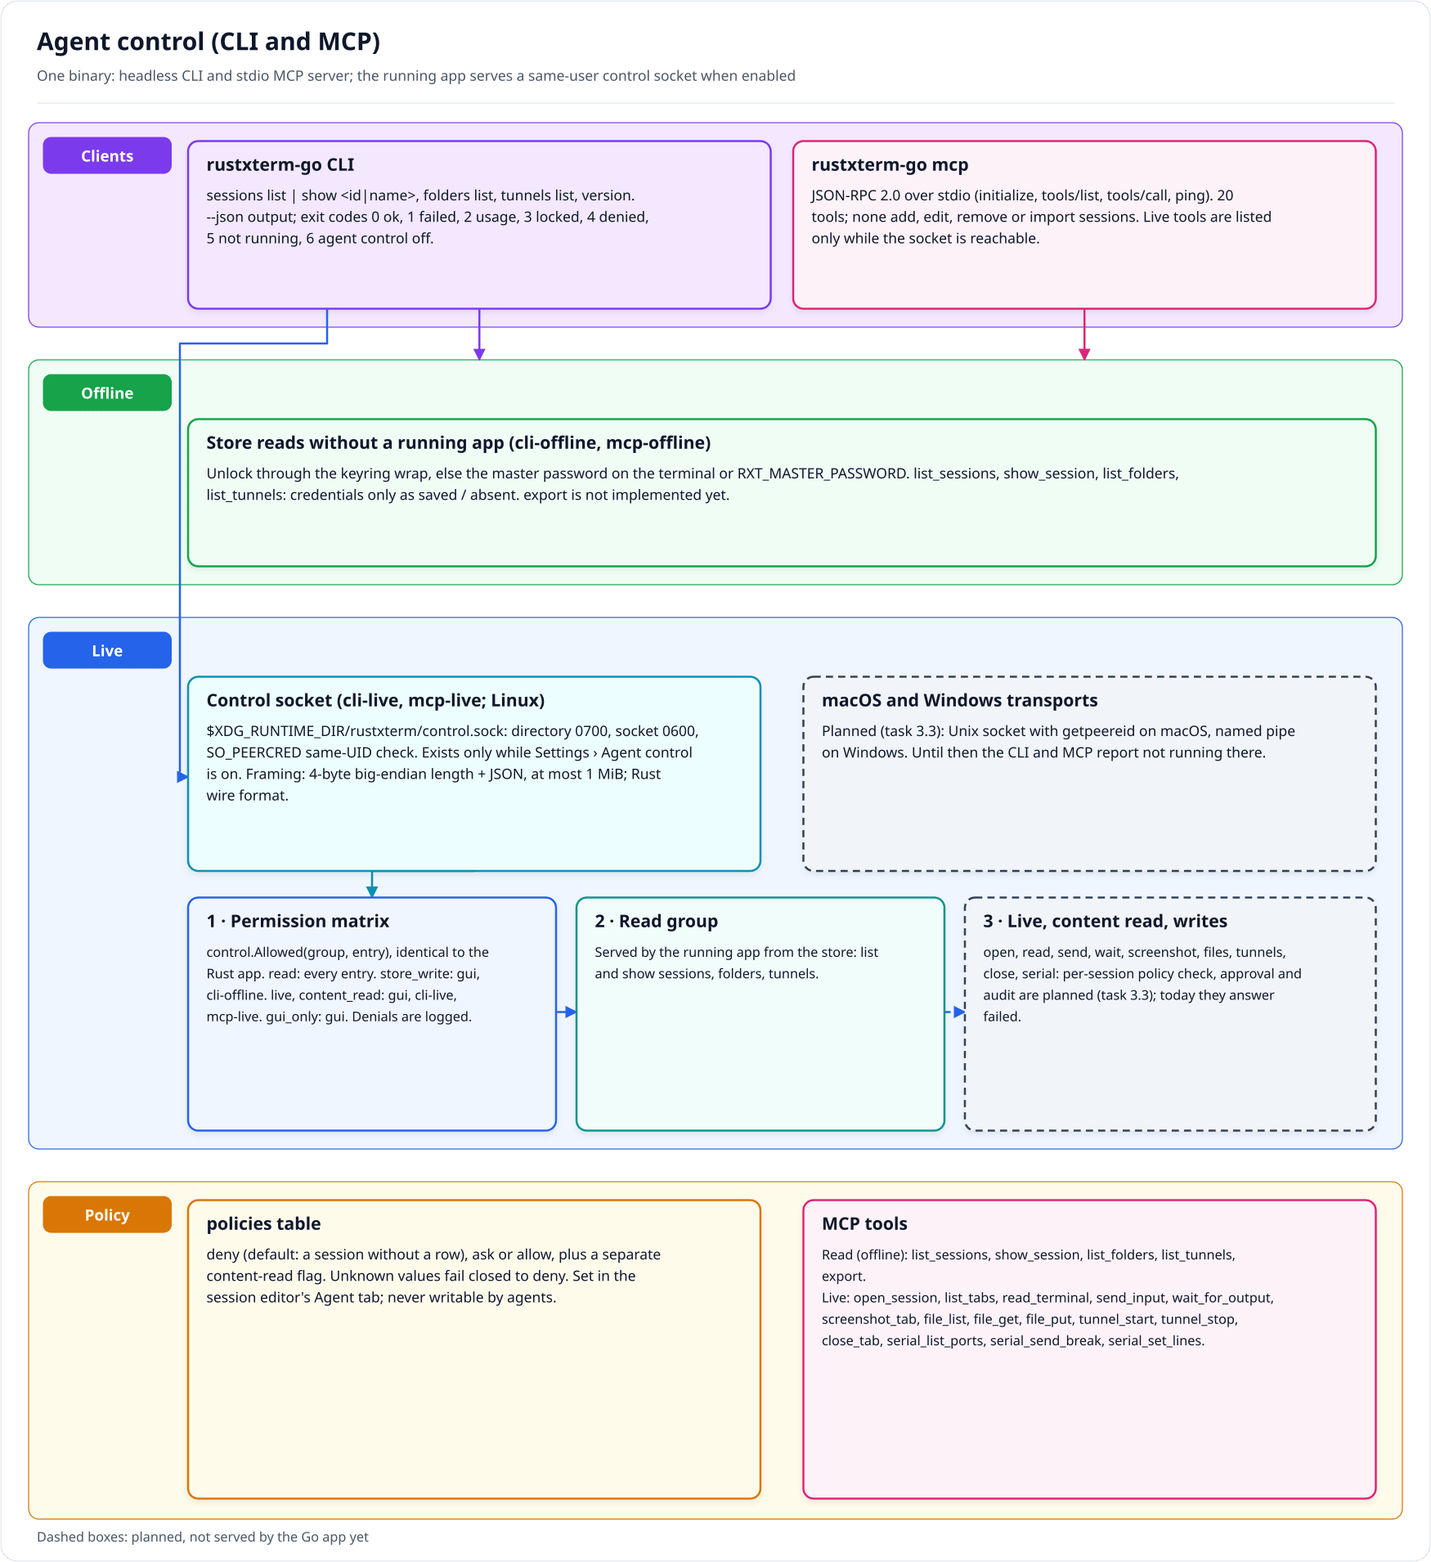
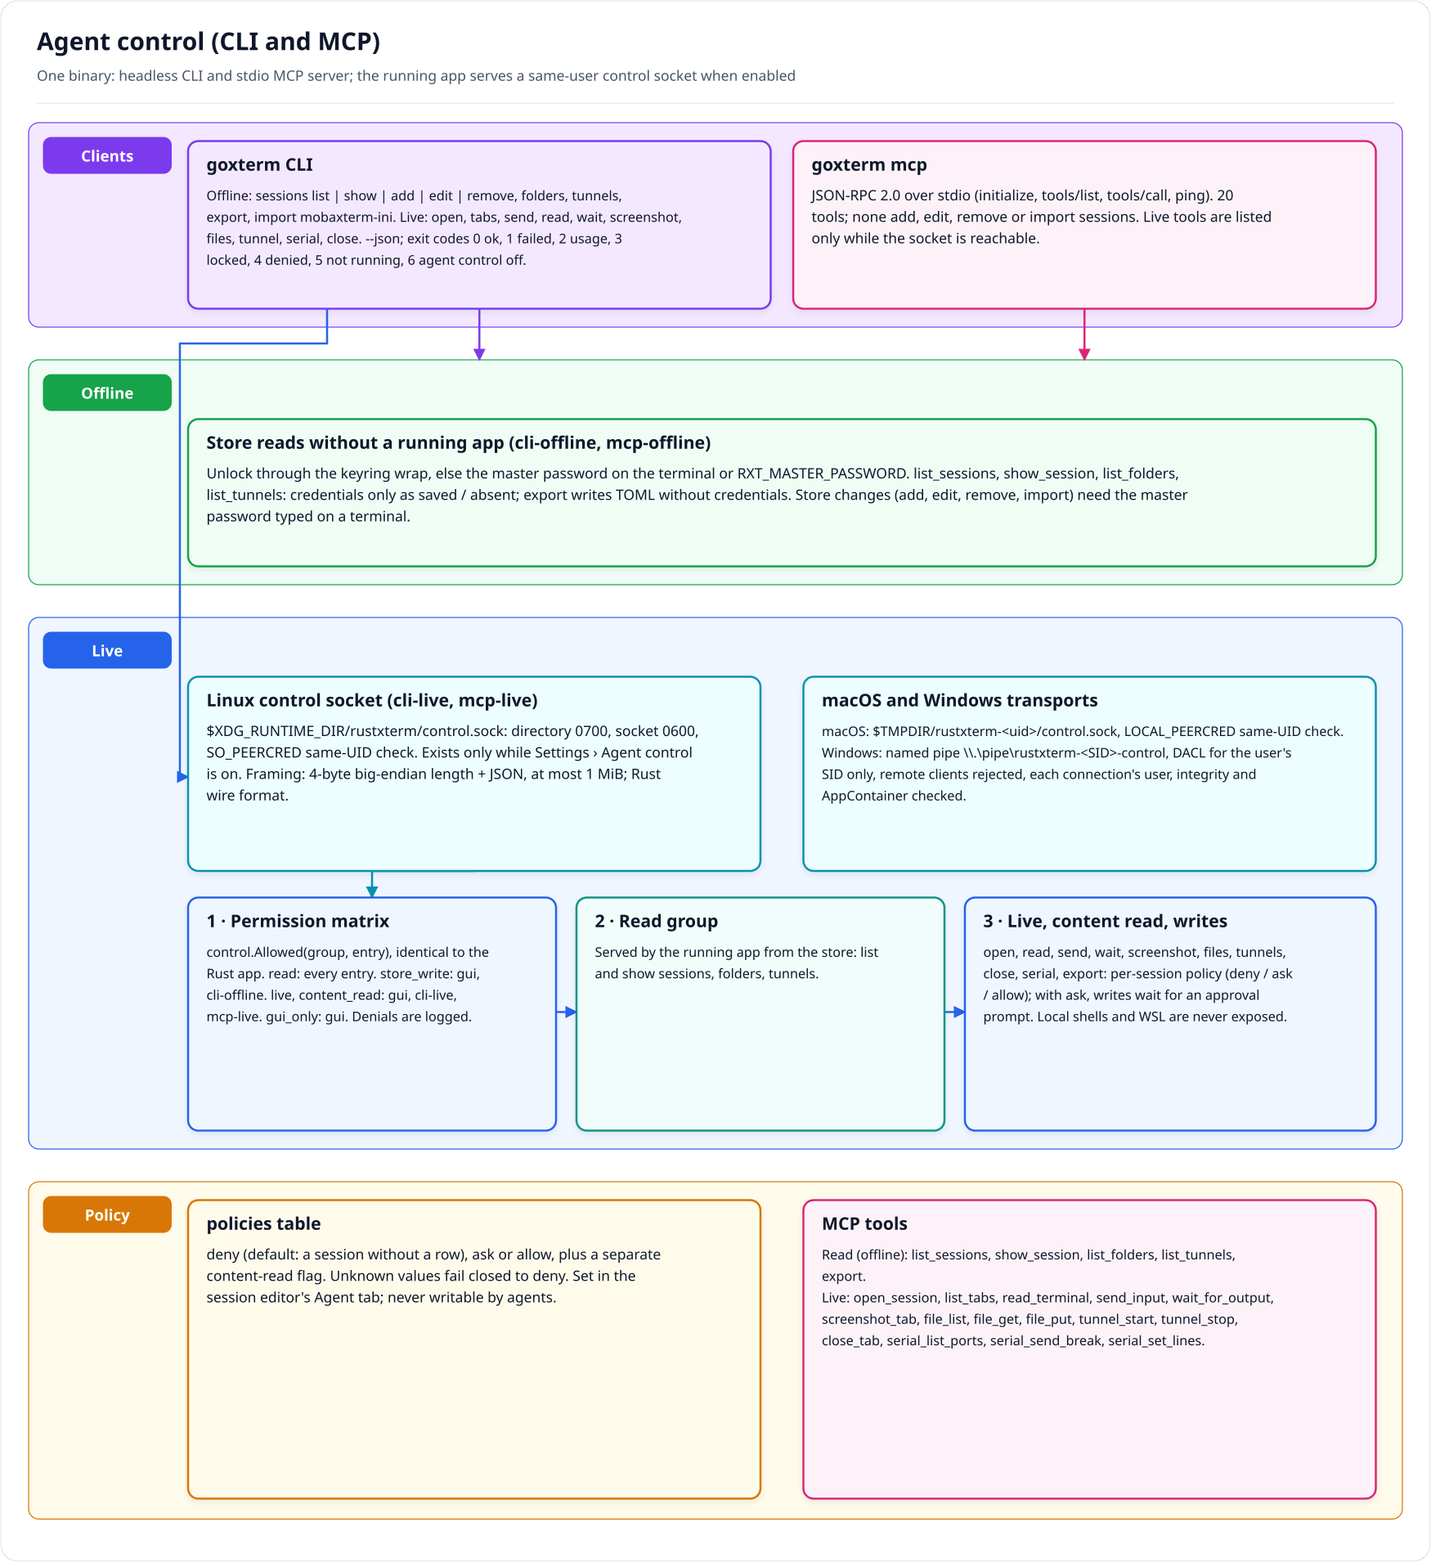
goXterm: README, binary and artifact names (rename from rustXterm)
- Binary and CLI command: rustxterm-go → goxterm. Release artifacts are
  goxterm-X.Y.Z-… (Linux, AppImage, Windows .exe, macOS per-arch and
  universal zip). The macOS bundle is goXterm.app; the AppImage entry and
  icon are goxterm.
- The README presents the project as goXterm; its history notes it
  started as rustXterm. Other docs, the release skill and workflow, and
  diagrams 05/06 use the new names.
- Diagram 05 now matches the current agent control (live operations,
  export, macOS and Windows transports).
- Unchanged on purpose, so existing installs keep their data:
  - the rustxterm config and database folders;
  - keyring entries;
  - the macOS bundle id (io.github.jniltinho.rustxterm.go);
  - the Go module name (rustxterm-go);
  - the Docker build image.

Verified:
- make check, layers and test pass.
- make dist-all builds goxterm-* artifacts.
- The AppImage holds usr/bin/goxterm and goxterm.desktop (Name=goXterm).
- The macOS zip holds goXterm.app/Contents/MacOS/goxterm.
- goxterm version prints the version.

diff --git a/build/macapp/main.go b/build/macapp/main.go
@@ -1,7 +1,7 @@
-// Command macapp packs the two macOS slices into a universal "rustXterm (Go).app" and zips it, on
+// Command macapp packs the two macOS slices into a universal "goXterm.app" and zips it, on
 // Linux and without Apple tools (lipo, iconutil): the fat Mach-O, Info.plist, PkgInfo and a PNG
 // .icns are written in Go. The bundle is unsigned beyond the Go linker's ad-hoc slice signatures, so
-// a downloaded copy needs: xattr -dr com.apple.quarantine "rustXterm (Go).app".
+// a downloaded copy needs: xattr -dr com.apple.quarantine "goXterm.app".
 //
 // Usage: go run ./build/macapp -version V -icon logo.png -out app.zip darwin-amd64 darwin-arm64
 package main
@@ -20,8 +20,8 @@ import (
 )
 
 const (
-	appDir   = "rustXterm (Go).app/Contents/"
-	execName = "rustxterm-go"
+	appDir   = "goXterm.app/Contents/"
+	execName = "goxterm"
 	align    = 14 // 2^14: the page alignment lipo uses for arm64 and x86_64 slices
 )
 
@@ -111,9 +111,9 @@ func plist(version string, icon bool) string {
 <plist version="1.0">
 <dict>
 	<key>CFBundleName</key>
-	<string>rustXterm (Go)</string>
+	<string>goXterm</string>
 	<key>CFBundleDisplayName</key>
-	<string>rustXterm (Go)</string>
+	<string>goXterm</string>
 	<key>CFBundleIdentifier</key>
 	<string>io.github.jniltinho.rustxterm.go</string>
 	<key>CFBundleVersion</key>

diff --git a/cmd/root.go b/cmd/root.go
@@ -1,4 +1,4 @@
-// Package cmd is the command line of the single rustxterm-go binary: with no subcommand it opens the desktop app;
+// Package cmd is the command line of the single goxterm binary: with no subcommand it opens the desktop app;
 // the subcommands are the CLI and the MCP server (mcp). Protocols, the store and MCP are filled in by the later
 // phases of migrate-gui-to-go-wails; this is the scaffold.
 package cmd
@@ -23,8 +23,8 @@ var flags struct {
 }
 
 var rootCmd = &cobra.Command{
-	Use:           "rustxterm-go",
-	Short:         "rustXterm: desktop app, command line and MCP server",
+	Use:           "goxterm",
+	Short:         "goXterm: desktop app, command line and MCP server",
 	SilenceUsage:  true,
 	SilenceErrors: true,
 	Args:          noArgs, // an unknown subcommand is a usage error (2), as with clap

diff --git a/main.go b/main.go
@@ -1,4 +1,4 @@
-// rustXterm (Go): one binary for the desktop app, the CLI and the MCP server. See README.md.
+// goXterm: one binary for the desktop app, the CLI and the MCP server. See README.md.
 // Migration tracked by openspec/changes/migrate-gui-to-go-wails.
 package main
 

diff --git a/README.md b/README.md
@@ -1,8 +1,8 @@
 <div align="center">
 
-<img src="assets/icons/rustxterm.svg" width="96" alt="rustXterm logo">
+<img src="assets/icons/rustxterm.svg" width="96" alt="goXterm logo">
 
-# rustXterm
+# goXterm
 
 **Every remote session you use, in one window.**
 
@@ -28,7 +28,7 @@ is the desktop app, the CLI and the MCP server.
 
 </div>
 
-## Why rustXterm
+## Why goXterm
 
 - **One app instead of five.** Terminals, file transfers and remote desktops live side by side in tabs,
   organized in a session tree with colored folders.
@@ -39,7 +39,7 @@ is the desktop app, the CLI and the MCP server.
 - **Secure by default.** Sessions and passwords are encrypted at rest under a master password, optionally
   unlocked by the system keyring; unknown host keys and certificates are shown to you before you log in;
   tunnels bind to loopback unless you confirm otherwise.
-- **Bring your sessions.** Import a MobaXterm.ini file (password sections are never read) or a rustXterm
+- **Bring your sessions.** Import a MobaXterm.ini file (password sections are never read) or a rustXterm/goXterm
   TOML export.
 - **One codebase, three platforms.** Go + [Wails v3](https://v3.wails.io/) on the system webview
   (WebKitGTK, WebView2, WKWebView); every protocol is implemented in Go, with no external clients to
@@ -60,7 +60,7 @@ is the desktop app, the CLI and the MCP server.
 | **Encrypted store** | Sessions, folders, credentials, trust records and agent policies in an SQLCipher 4 database whose key is wrapped by your master password (Argon2id + XChaCha20-Poly1305) and optionally by the system keyring (Secret Service, macOS Keychain, Windows Credential Manager); same formats as the archived Rust app, so existing data opens unchanged |
 | **Import and export** | Import sessions from MobaXterm.ini (SSH, SFTP, FTP/FTPS, RDP, VNC, Telnet, Serial, WSL, with folders) after a preview; TOML export and import without passwords |
 | **Skins** | Light, Dark, Windows XP, macOS, macOS Dark and Mac OS Retro, plus System (follows the OS light/dark setting live) |
-| **Agent control** | `rustxterm-go` CLI and stdio MCP server (store reads today), a same-user control socket on Linux that stays off until you enable it, and a per-session Deny / Ask / Allow agent policy |
+| **Agent control** | `goxterm` CLI and stdio MCP server (store reads today), a same-user control socket on Linux that stays off until you enable it, and a per-session Deny / Ask / Allow agent policy |
 
 Status: Linux x86_64 is the primary target; every screen and protocol is tested there against the Docker
 lab. Windows x86_64 and macOS (universal) builds ship with every release and were verified interactively
@@ -96,11 +96,11 @@ Download from [GitHub Releases](https://github.com/jniltinho/goXterm/releases). 
 
 | Asset | Platform |
 |---|---|
-| `rustxterm-go-X.Y.Z-linux-amd64` | Linux x86_64 binary (needs GTK 4 and WebKitGTK 6.0: Ubuntu 24.04+, Fedora 39+, Debian 13+) |
-| `rustxterm-go-X.Y.Z-x86_64.AppImage` | The same Linux app as an AppImage (uses the system GTK 4 / WebKitGTK 6.0) |
-| `rustxterm-go-X.Y.Z-windows-amd64.exe` | Windows x86_64 (WebView2) |
-| `rustxterm-go-X.Y.Z_macos_universal.zip` | macOS app bundle `rustXterm (Go).app`, Apple Silicon and Intel |
-| `rustxterm-go-X.Y.Z-darwin-amd64`, `rustxterm-go-X.Y.Z-darwin-arm64` | macOS per-architecture binaries |
+| `goxterm-X.Y.Z-linux-amd64` | Linux x86_64 binary (needs GTK 4 and WebKitGTK 6.0: Ubuntu 24.04+, Fedora 39+, Debian 13+) |
+| `goxterm-X.Y.Z-x86_64.AppImage` | The same Linux app as an AppImage (uses the system GTK 4 / WebKitGTK 6.0) |
+| `goxterm-X.Y.Z-windows-amd64.exe` | Windows x86_64 (WebView2) |
+| `goxterm-X.Y.Z_macos_universal.zip` | macOS app bundle `goXterm.app`, Apple Silicon and Intel |
+| `goxterm-X.Y.Z-darwin-amd64`, `goxterm-X.Y.Z-darwin-arm64` | macOS per-architecture binaries |
 | `SHA256SUMS` | Checksums for all of the above |
 
 **Linux**
@@ -108,21 +108,21 @@ Download from [GitHub Releases](https://github.com/jniltinho/goXterm/releases). 
 ```sh
 sha256sum --check --ignore-missing SHA256SUMS
 sudo apt install libgtk-4-1 libwebkitgtk-6.0-4     # Debian/Ubuntu, if not installed yet
-chmod +x rustxterm-go-X.Y.Z-x86_64.AppImage
-./rustxterm-go-X.Y.Z-x86_64.AppImage
+chmod +x goxterm-X.Y.Z-x86_64.AppImage
+./goxterm-X.Y.Z-x86_64.AppImage
 ```
 
 If the window stays blank or flickers with your GPU driver, start with `--safe-gpu` (or set
 `RXT_SAFE_GPU=1`) to turn off webview GPU acceleration.
 
-**Windows:** run `rustxterm-go-X.Y.Z-windows-amd64.exe`. It needs the Microsoft Edge WebView2 runtime,
+**Windows:** run `goxterm-X.Y.Z-windows-amd64.exe`. It needs the Microsoft Edge WebView2 runtime,
 which Windows 10 and 11 include. The build is unsigned, so SmartScreen may ask for confirmation.
 
-**macOS:** unzip `rustxterm-go-X.Y.Z_macos_universal.zip`, move `rustXterm (Go).app` to Applications and
+**macOS:** unzip `goxterm-X.Y.Z_macos_universal.zip`, move `goXterm.app` to Applications and
 clear the quarantine flag of the unsigned app once:
 
 ```sh
-xattr -dr com.apple.quarantine "rustXterm (Go).app"
+xattr -dr com.apple.quarantine "goXterm.app"
 ```
 
 macOS 15 denies Local Network access to unsigned apps, so hosts on the Mac's own subnet are unreachable
@@ -130,7 +130,7 @@ from this build; routed hosts work. The Keychain holds the optional store key.
 
 ## Quick start
 
-1. Start rustXterm and choose a master password. It encrypts all sessions and credentials and
+1. Start goXterm and choose a master password. It encrypts all sessions and credentials and
    **cannot be recovered**. Tick **Unlock with system keyring** to skip the prompt on later starts.
 2. Create a session with **New session**, or type `user@host` in **Quick connect**. The **+** after
    the last tab opens a local terminal on your own computer.
@@ -172,10 +172,10 @@ Offline reads unlock through the keyring, else the master password typed on a te
 typed on an interactive terminal (never the keyring, a pipe or the environment) and are audited. The
 other commands talk to the running app over the agent-control socket and never start the GUI.
 
-MCP clients start `rustxterm-go mcp` over stdio:
+MCP clients start `goxterm mcp` over stdio:
 
 ```json
-{ "mcpServers": { "rustxterm": { "command": "rustxterm-go", "args": ["mcp"] } } }
+{ "mcpServers": { "rustxterm": { "command": "goxterm", "args": ["mcp"] } } }
 ```
 
 The MCP server defines 20 tools and none that add, edit, remove or import sessions. The read-only tools
@@ -205,7 +205,7 @@ an approval prompt in the app.
 | 2 | Usage error |
 | 3 | Store locked |
 | 4 | Denied by policy or approval |
-| 5 | rustXterm is not running |
+| 5 | goXterm is not running |
 | 6 | Agent control is off |
 
 With `--json`, errors are printed as `{"error":{"code":N,"message":"..."}}`.
@@ -254,7 +254,7 @@ The [developer guide](docs/DEVELOPMENT.md) covers the layout, every `make` targe
 
 ## History
 
-rustXterm started as a native Rust/egui application (releases up to v0.8.0). It was rewritten in Go +
+goXterm started as rustXterm, a native Rust/egui application (releases up to v0.8.0). It was rewritten in Go +
 Wails v3 to reach parity on Linux, Windows and macOS with one codebase, and the Go app continues the
 version numbering from v0.9.0. The Rust app is archived, read-only, in
 [`archive/rust/`](archive/rust/README.md); the Go app keeps its store, settings, known hosts and keyring
@@ -276,12 +276,12 @@ formats.
 
 Bug reports, ideas and pull requests are welcome: open an
 [issue](https://github.com/jniltinho/goXterm/issues). The [developer guide](docs/DEVELOPMENT.md)
-explains the Docker-only workflow and the test lab. If rustXterm is useful to you, a ⭐ helps other
+explains the Docker-only workflow and the test lab. If goXterm is useful to you, a ⭐ helps other
 people find it.
 
 ## License
 
-rustXterm is released under the [MIT License](LICENSE).
+goXterm is released under the [MIT License](LICENSE).
 
 Every icon, image, font and fixture is listed with its origin and license in
 [ATTRIBUTION.md](ATTRIBUTION.md). The application icon set in `assets/icons/app/` is original and MIT
@@ -290,7 +290,7 @@ licensed; the distribution logos in `assets/icons/app/brands/` are trademarks of
 <details>
 <summary>Acknowledgements</summary>
 
-rustXterm stands on great open-source work, including [Wails](https://github.com/wailsapp/wails),
+goXterm stands on great open-source work, including [Wails](https://github.com/wailsapp/wails),
 [Vue](https://vuejs.org/), [Tailwind CSS](https://tailwindcss.com/), [Vite+](https://viteplus.dev/),
 [xterm.js](https://xtermjs.org/), the Go [x/crypto](https://pkg.go.dev/golang.org/x/crypto) SSH packages,
 [pkg/sftp](https://github.com/pkg/sftp), [jlaffaye/ftp](https://github.com/jlaffaye/ftp),

diff --git a/docs/DEVELOPMENT.md b/docs/DEVELOPMENT.md
@@ -67,10 +67,10 @@ Every target runs in Docker. `VERSION` defaults to the exact `v*` tag of `HEAD` 
 | `make layers` | `go test ./internal/archtest`: import rules and skin token parity |
 | `make embed-stub` | Placeholder `internal/gui/dist/index.html` so compile-only targets work on a fresh checkout |
 | `make frontend` | Copy icons and fonts into `frontend/public/`, then `npm ci` and `vp build --mode desktop` into `internal/gui/dist` |
-| `make build` | Frontend + `dist/rustxterm-go-VERSION-linux-amd64` (CGO, GTK 4 / WebKitGTK 6.0) |
-| `make appimage` | `dist/rustxterm-go-VERSION-x86_64.AppImage` (system GTK / WebKitGTK) |
-| `make windows` | `dist/rustxterm-go-VERSION-windows-amd64.exe` (WebView2, CGO-free) |
-| `make macos` | `dist/rustxterm-go-VERSION-darwin-{amd64,arm64}` and `dist/rustxterm-go-VERSION_macos_universal.zip` (purego, CGO-free; `build/macapp` builds the universal `rustXterm (Go).app`) |
+| `make build` | Frontend + `dist/goxterm-VERSION-linux-amd64` (CGO, GTK 4 / WebKitGTK 6.0) |
+| `make appimage` | `dist/goxterm-VERSION-x86_64.AppImage` (system GTK / WebKitGTK) |
+| `make windows` | `dist/goxterm-VERSION-windows-amd64.exe` (WebView2, CGO-free) |
+| `make macos` | `dist/goxterm-VERSION-darwin-{amd64,arm64}` and `dist/goxterm-VERSION_macos_universal.zip` (purego, CGO-free; `build/macapp` builds the universal `goXterm.app`) |
 | `make dist-all` | `appimage`, `windows` and `macos` |
 | `make guard` | Publication guard (`go run ./build/guard`); `GUARD_ARGS=--ci` as CI runs it, `--artifact PATH` to scan a release file |
 | `make lab-test` | Go `TestLab*` tests against the running lab (host network) |
@@ -138,8 +138,8 @@ session):
 
 ```sh
 make build
-./dist/rustxterm-go-dev-linux-amd64                # the window
-./dist/rustxterm-go-dev-linux-amd64 sessions list  # the CLI
+./dist/goxterm-dev-linux-amd64                # the window
+./dist/goxterm-dev-linux-amd64 sessions list  # the CLI
 ```
 
 To keep test data away from your real sessions, point `XDG_CONFIG_HOME` and `XDG_DATA_HOME` at scratch

diff --git a/docs/README.md b/docs/README.md
@@ -24,7 +24,7 @@ requirements live in OpenSpec under [`openspec/`](../openspec/); the Go app was 
 
 ## Architecture
 
-rustXterm is one Go module (`rustxterm-go`) built with Wails v3. `main.go` hands over to `cmd/` (Cobra):
+rustXterm is one Go module (`goxterm`) built with Wails v3. `main.go` hands over to `cmd/` (Cobra):
 with no subcommand it opens the desktop window (`internal/gui`), otherwise it runs the CLI or the MCP
 server headless. The core is GUI-free packages under `internal/`; only `internal/gui` imports Wails.
 `make layers` runs `internal/archtest`, which refuses any import outside this table and checks that every
@@ -90,7 +90,7 @@ A forgotten master password is unrecoverable by design.
 
 ## Agent control (CLI and MCP)
 
-Scripts and AI agents use the `rustxterm-go` CLI or the stdio MCP server (`rustxterm-go mcp`), both
+Scripts and AI agents use the `goxterm` CLI or the stdio MCP server (`goxterm mcp`), both
 headless. Store reads (`sessions list|show`, `folders list`, `tunnels list` and the matching MCP tools)
 work offline: they unlock the store through the keyring wrap or the master password. When **Settings ›
 Agent control** is on, the running app listens on a same-user Unix socket
@@ -134,7 +134,7 @@ Font zoom: Ctrl+wheel, Ctrl+= / Ctrl++ and Ctrl+- change the font size, Ctrl+0 r
 Builds, lints and tests run only in Docker through `make` (`rustxterm-go-linux` image from
 `build/linux.Dockerfile`, `node:24` for the frontend). The Linux binary links GTK 4 and WebKitGTK 6.0
 (CGO); Windows (WebView2) and macOS (Wails purego backend) cross-build CGO-free from the same image, and
-`build/macapp` assembles the universal `rustXterm (Go).app` zip. `ci.yml` runs on `main` and pull requests
+`build/macapp` assembles the universal `goXterm.app` zip. `ci.yml` runs on `main` and pull requests
 (jobs `checks`, `lab`, `build`) and never publishes; `release-go.yml` runs `make dist-all` on `v*.*.*` tags,
 only for a commit whose `ci` run is green, and publishes the GitHub Release with `SHA256SUMS`.
 

diff --git a/ATTRIBUTION.md b/ATTRIBUTION.md
@@ -57,7 +57,7 @@ Every icon, image, font and test fixture committed to this repository has a row 
[1 lines of base64/hex data omitted]
 | `assets/icons/rustxterm.svg` | Original rustXterm application icon, drawn by rustXterm developers | MIT |
 | `assets/icons/rustxterm-256.png` | 256 px render of `assets/icons/rustxterm.svg` (window icon) | MIT |
-| `build/linux/rustxterm-go.png` | Copy of `assets/icons/rustxterm-256.png`, used as the AppImage icon | MIT |
+| `build/linux/goxterm.png` | Copy of `assets/icons/rustxterm-256.png`, used as the AppImage icon | MIT |
 | `internal/rdpmit/**` | RDP client vendored from rcarmo/go-rdp (https://github.com/rcarmo/go-rdp, branch `master`, commit `5b081feb69ef89d1baae663a28f0d8d8156c4156`), `internal/` subset, with rustXterm changes listed in `internal/rdpmit/README.md`; full text in `internal/rdpmit/LICENSE` | MIT |
 | `archive/rust/vendor/picky/**` | picky 7.0.0-rc.25 by Devolutions Inc. (crates.io), manifest dependency requirements relaxed (see `archive/rust/vendor/README.md`) | MIT OR Apache-2.0 |
 | `archive/rust/vendor/sspi/**` | sspi 0.21.3 by Devolutions Inc. (crates.io), macOS/iOS-only pinned dependencies removed from the manifest (see `archive/rust/vendor/README.md`) | MIT OR Apache-2.0 |

diff --git a/docs/release.md b/docs/release.md
@@ -25,11 +25,11 @@ as `archive/rust/release.yml`. The step-by-step procedure, including release not
 successful `ci.yml` run, then runs `make dist-all VERSION=X.Y.Z` in Docker, writes `SHA256SUMS` and
 creates the GitHub Release (generated notes plus the macOS quarantine hint) with:
 
-- `rustxterm-go-X.Y.Z-linux-amd64` (GTK 4 + WebKitGTK 6.0)
-- `rustxterm-go-X.Y.Z-x86_64.AppImage`
-- `rustxterm-go-X.Y.Z-windows-amd64.exe` (WebView2)
-- `rustxterm-go-X.Y.Z_macos_universal.zip` (unsigned `rustXterm (Go).app`, Apple Silicon and Intel)
-- `rustxterm-go-X.Y.Z-darwin-amd64` and `rustxterm-go-X.Y.Z-darwin-arm64`
+- `goxterm-X.Y.Z-linux-amd64` (GTK 4 + WebKitGTK 6.0)
+- `goxterm-X.Y.Z-x86_64.AppImage`
+- `goxterm-X.Y.Z-windows-amd64.exe` (WebView2)
+- `goxterm-X.Y.Z_macos_universal.zip` (unsigned `goXterm.app`, Apple Silicon and Intel)
+- `goxterm-X.Y.Z-darwin-amd64` and `goxterm-X.Y.Z-darwin-arm64`
 - `SHA256SUMS`
 
 Tags with a `-` suffix are published as pre-releases. Releases are unsigned (no Apple Developer ID or
@@ -40,7 +40,7 @@ Windows code signing).
 ```sh
 make dist-all VERSION=0.0.0-test
 (cd dist && sha256sum -- * > SHA256SUMS)
-make guard GUARD_ARGS="--artifact dist/rustxterm-go-0.0.0-test-x86_64.AppImage"
+make guard GUARD_ARGS="--artifact dist/goxterm-0.0.0-test-x86_64.AppImage"
 ```
 
 A manual run of `release-go.yml` (`workflow_dispatch`) builds everything with `VERSION=dev` and uploads

diff --git a/.claude/skills/create-release/SKILL.md b/.claude/skills/create-release/SKILL.md
@@ -61,8 +61,8 @@ git push origin $NEXT
 ```
 
 `release-go.yml` then verifies the green CI run, runs `make dist-all` in Docker and creates the GitHub
-Release with `rustxterm-go-X.Y.Z-linux-amd64`, `rustxterm-go-X.Y.Z-x86_64.AppImage`,
-`rustxterm-go-X.Y.Z-windows-amd64.exe`, `rustxterm-go-X.Y.Z_macos_universal.zip`, the per-arch
+Release with `goxterm-X.Y.Z-linux-amd64`, `goxterm-X.Y.Z-x86_64.AppImage`,
+`goxterm-X.Y.Z-windows-amd64.exe`, `goxterm-X.Y.Z_macos_universal.zip`, the per-arch
 `darwin-amd64`/`darwin-arm64` binaries and `SHA256SUMS`.
 
 ### 4. Monitor
@@ -94,10 +94,10 @@ cat > /tmp/release-notes-$NEXT.md << 'NOTES'
 
 ## 📦 Downloads
 
-- `rustxterm-go-X.Y.Z-linux-amd64` (GTK 4 + WebKitGTK 6.0: Ubuntu 24.04+, Fedora 39+, Debian 13+)
-- `rustxterm-go-X.Y.Z-x86_64.AppImage`
-- `rustxterm-go-X.Y.Z-windows-amd64.exe` (WebView2)
-- `rustxterm-go-X.Y.Z_macos_universal.zip` (unsigned: `xattr -dr com.apple.quarantine "rustXterm (Go).app"`)
+- `goxterm-X.Y.Z-linux-amd64` (GTK 4 + WebKitGTK 6.0: Ubuntu 24.04+, Fedora 39+, Debian 13+)
+- `goxterm-X.Y.Z-x86_64.AppImage`
+- `goxterm-X.Y.Z-windows-amd64.exe` (WebView2)
+- `goxterm-X.Y.Z_macos_universal.zip` (unsigned: `xattr -dr com.apple.quarantine "goXterm.app"`)
 - `SHA256SUMS`
 
 **Full Changelog**: https://github.com/jniltinho/goXterm/compare/vPREV...vNEXT
